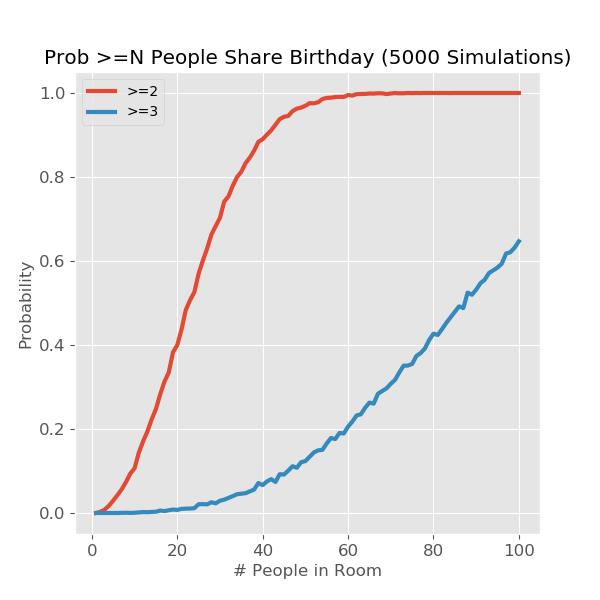
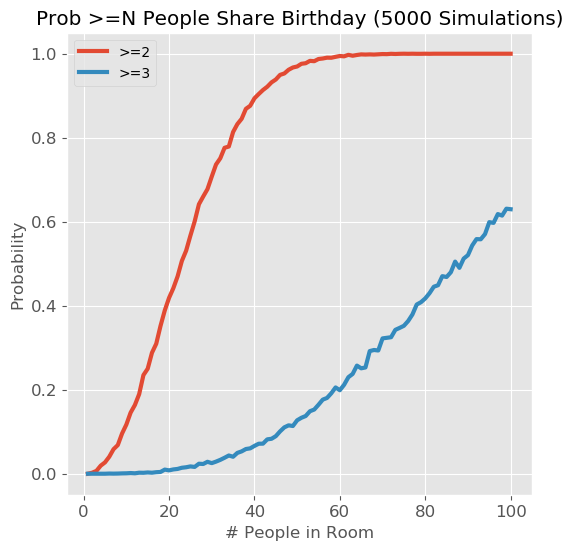
minor fixes to figures where legend was cut off when saved

diff --git a/src/birthday_puzzle.py b/src/birthday_puzzle.py
@@ -59,7 +59,7 @@ if __name__=='__main__':
     ax.set_xlabel('# People in Room')
     ax.set_ylabel('Probability')
     ax.set_title('Prob. >=2 People Share Birthday (' + str(N_sims) + ' Simulations)')
-    plt.savefig('./images/p_gte2_vs_N_uniform.png')
+    plt.savefig('./images/p_gte2_vs_N_uniform.png',bbox_inches='tight')
 
     fig, ax = plt.subplots(1, figsize=plt_size)
     ax.plot(room_sizes, p2_unif, linewidth=3, label='>=2')
@@ -68,7 +68,7 @@ if __name__=='__main__':
     ax.set_ylabel('Probability')
     ax.legend()
     ax.set_title('Prob >=N People Share Birthday (' + str(N_sims) + ' Simulations)')
-    plt.savefig('./images/p_gte2_gte3_vs_N_uniform.png')
+    plt.savefig('./images/p_gte2_gte3_vs_N_uniform.png',bbox_inches='tight')
     
     # Load actual birth data
     df_births = pd.read_csv('./data/US_births_2000-2014_SSA.csv')
@@ -88,7 +88,7 @@ if __name__=='__main__':
     ax.set_xlabel('Day of Month')
     ax.set_ylabel('Month')
     ax.set_title('Number of Births Vs. Month and Day')
-    plt.savefig('images/births_heatmap.png')
+    plt.savefig('images/births_heatmap.png',bbox_inches='tight')
 
     # calculate probability of being born each day from data
     total_births = df_births['births'].sum()
@@ -105,7 +105,7 @@ if __name__=='__main__':
     ax.set_xlabel('Yearday')
     ax.set_ylabel('Probability')
     ax.legend()
-    plt.savefig('images/birth_prob_vs_yday.png')
+    plt.savefig('images/birth_prob_vs_yday.png',bbox_inches='tight')
 
     # Run simulations w/ actual probs
     p2_prob=[]
@@ -120,7 +120,7 @@ if __name__=='__main__':
     ax.set_ylabel('Probability')
     ax.legend()
     ax.set_title('Prob >=2 People Share Birthday (' + str(N_sims) + ' Simulations)')
-    plt.savefig('images/p_gte2_vs_N_uniform_actual.png')
+    plt.savefig('images/p_gte2_vs_N_uniform_actual.png',bbox_inches='tight')
 
     # Create a fake prob. distribution with larger differences to test if there is an effect
     ydays = np.arange(1,366)
@@ -132,7 +132,7 @@ if __name__=='__main__':
     ax.set_xlabel('Yearday')
     ax.set_ylabel('Probability')
     ax.set_title('Fake Probability Distribution')
-    plt.savefig('images/fake_birth_prob_vs_yday.png')
+    plt.savefig('images/fake_birth_prob_vs_yday.png',bbox_inches='tight')
 
     # Run simulations w/ fake probs
     p2_fake=[]
@@ -147,4 +147,4 @@ if __name__=='__main__':
     ax.set_ylabel('Probability')
     ax.legend()
     ax.set_title('Prob >=2 People Share Birthday (' + str(N_sims) + ' Simulations)')
-    plt.savefig('images/p_gte2_vs_N_uniform_fakeprobs.png')
+    plt.savefig('images/p_gte2_vs_N_uniform_fakeprobs.png',bbox_inches='tight')
